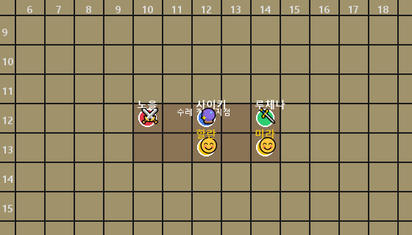
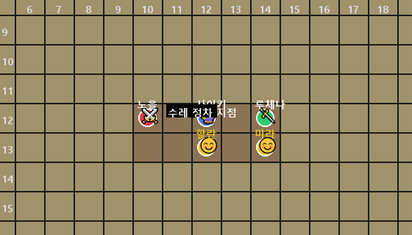
fix: 장소 라벨 엔티티 위에 그림 + 볼드 배경박스 + 이름 폰트 통일
- 장소 라벨을 엔티티 뒤가 아닌 위에 렌더링 (가림 방지)
- 장소 라벨 볼드 14px + 반투명 검정 배경 박스
- 인물/NPC 이름 볼드 14px, 아이콘 위 배치

Changed region(s): [[0.3786, 0.417, 0.5825, 0.5064]]

diff --git a/map_generator.py b/map_generator.py
@@ -140,11 +140,7 @@ class MapGenerator:
         player_emojis = {"전사": "\u2694\ufe0f", "마법사": "\U0001f52e", "도적": "\U0001f5e1\ufe0f", "궁수": "\U0001f3f9", "성직자": "\u271d\ufe0f"}
         npc_emojis = {"friendly": "\U0001f60a", "monster": "\U0001f479", "neutral": "\U0001f464"}
 
-        for loc in locations:
-            area = loc["area"]
-            cx = ((area["x1"] + area["x2"]) / 2) * self.tile_size + margin_left
-            cy = area["y1"] * self.tile_size + margin_top + 5
-            draw.text((cx - 20, cy), loc["name"], fill="white", font=font_small)
+        # 장소 라벨은 엔티티 뒤에 그림 (아래에서 처리)
 
         # Draw NPCs — different styles by type
         # Only draw alive NPCs at current location (skip dead/fled, skip off-map positions)
@@ -229,6 +225,19 @@ class MapGenerator:
                 fill="white",
                 font=font_name,
             )
+
+        # 장소 라벨 (엔티티 위에 그림 — 가려지지 않게)
+        # 볼드 폰트 사용, 반투명 배경 박스 포함
+        label_font = font_name  # 14px Bold
+        for loc in locations:
+            area = loc["area"]
+            cx = ((area["x1"] + area["x2"]) / 2) * self.tile_size + margin_left
+            cy = area["y1"] * self.tile_size + margin_top + 3
+            text = loc["name"]
+            # 배경 박스
+            tw = len(text) * 8 + 4
+            draw.rectangle([cx - tw//2, cy - 1, cx + tw//2, cy + 16], fill="#000000aa")
+            draw.text((cx - tw//2 + 2, cy), text, fill="white", font=label_font)
 
         # Draw turn info and location name
         turn = state.get("turn_count", 0)
